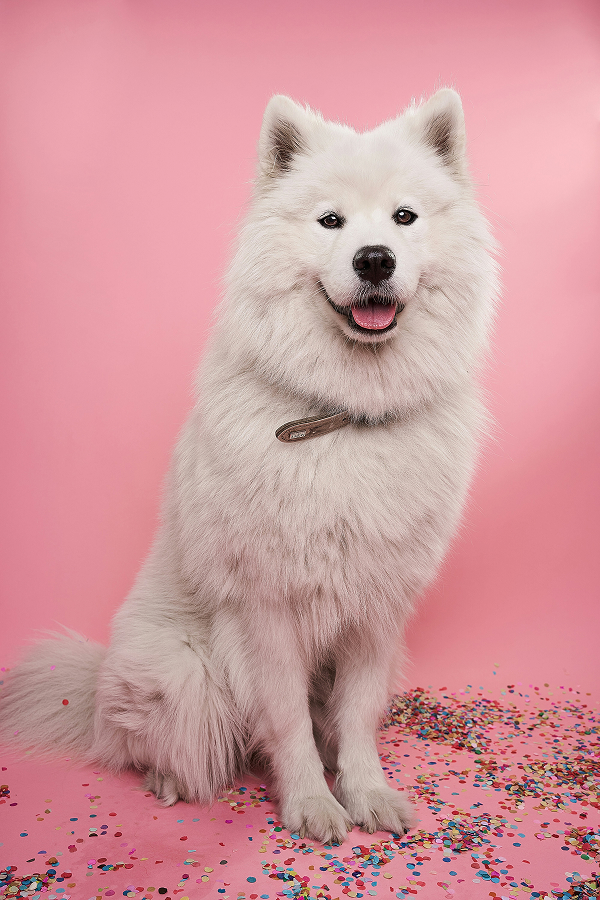
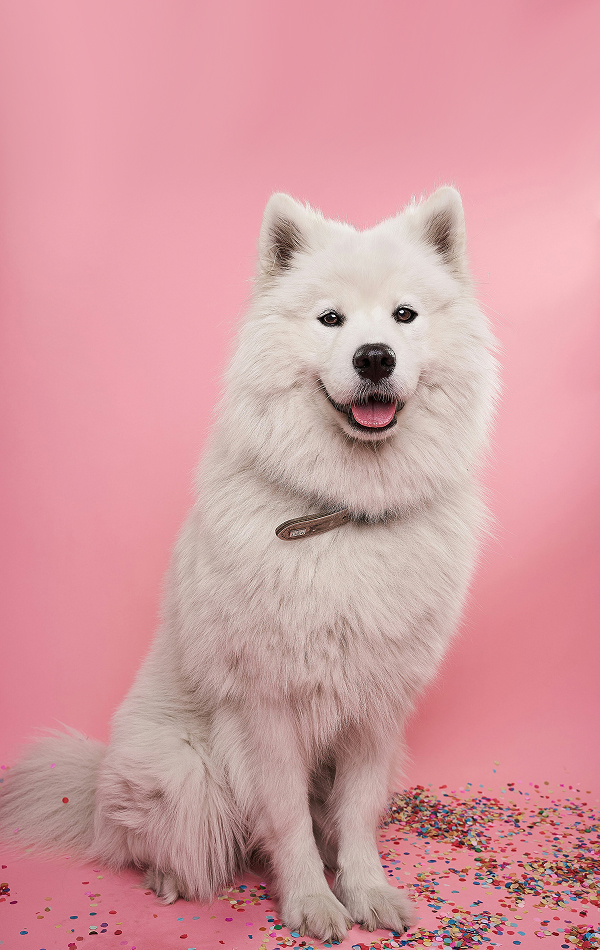
T fix css (#14)
* fix: CSS update AnimalCard.tsx and src/index.css

* fix: CSS AnimalCard & buttons / update 5 files

* chore: update AnimalCard CSS and images sizes / update 10 files

---------

diff --git a/src/components/AnimalCard.tsx b/src/components/AnimalCard.tsx
@@ -19,12 +19,16 @@ export default function AnimalCard() {
     <div id="animal_card">
       {data.map((animal: any) => (
         <article key={animal.id} className="animal_card">
-          <div style={{backgroundImage:`url(./src/assets/img/${animal.image_url})`}}></div>
-          <p>{animal.type}</p>
-          <p className="animal_name">{animal.animal_name}</p>
-          <p>{animal.age} ans • {animal.breed}</p>
-          <p>{animal.city}</p>
-          <p>{animal.description}</p>
+          <div>
+            <div className="animal_img" style={{backgroundImage:`url(./src/assets/img/${animal.image_url})`}}></div>
+            <div>
+              <p>{animal.type}</p>
+              <p className="animal_name">{animal.animal_name}</p>
+              <p>{animal.age} ans • {animal.breed}</p>
+              <p>{animal.city}</p>
+            </div>
+            <p>{animal.description}</p>
+          </div>
           <button className="button1">Rencontrer</button>
         </article>
       ))}

diff --git a/src/index.css b/src/index.css
@@ -239,9 +239,16 @@ section p {
   justify-content: center;
 }
 .animal_card {
+  margin: 0.5rem;
+  padding: 0;
   width:20%;
+  display: flex;
+  flex-wrap: wrap;
+  flex-direction: column;
+  justify-content: space-between;
 }
-.animal_card>div:first-child {
+.animal_img {
+  margin-bottom: 1rem;
   width: 100%;
   height: 10rem;
   overflow: hidden;
@@ -249,9 +256,17 @@ section p {
   background-size: 100%;
   background-position-y: center;
 }
-.animal_card div img {
-  width: 100%;
-  height: auto;
+.animal_card p {
+  padding: 0 1rem;
+  margin: 0;
+}
+.animal_card>div>p {
+  margin-top: 1rem;
+  text-align: center;
+}
+.animal_card button {
+  margin: 1rem;
+  width:50%;
 }
 .animal_name {
   color: var(--accent-color);
